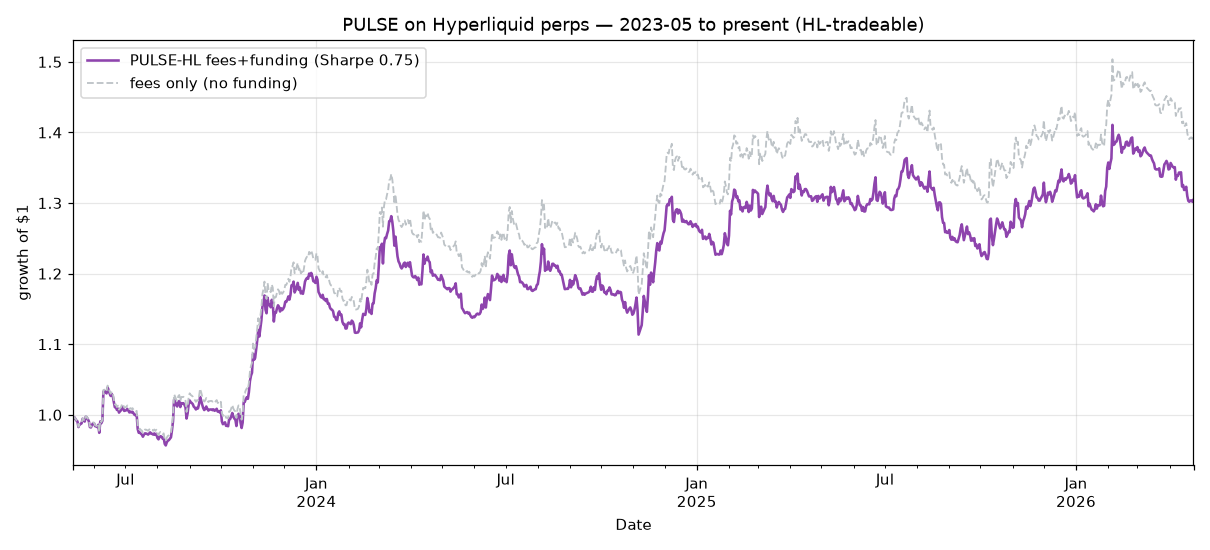
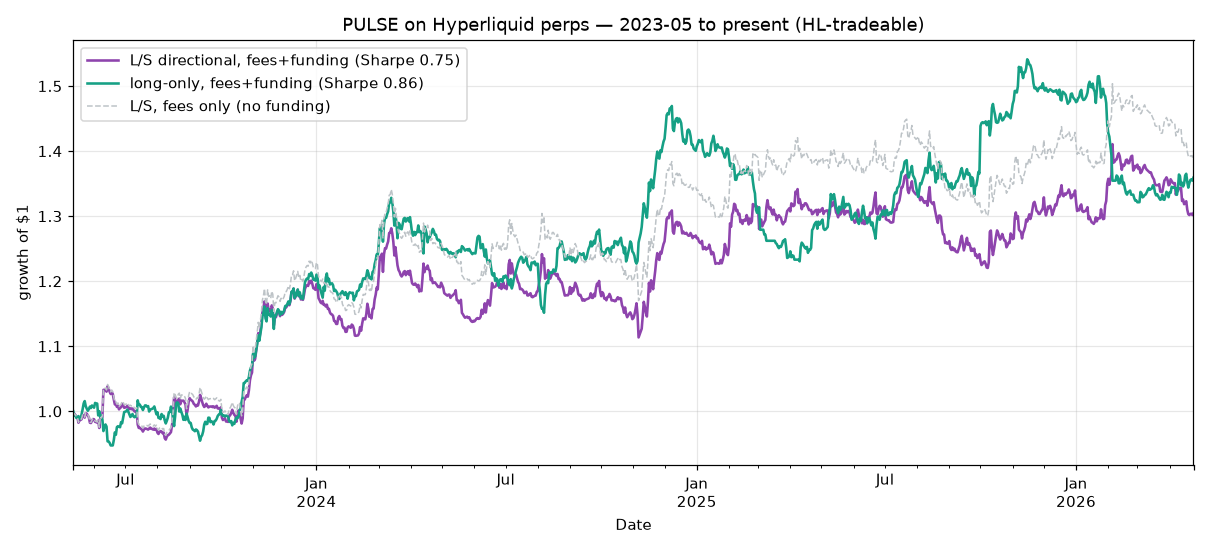
PULSE long-only variant: validate on HL + add to cross-asset
Long-only (long uptrends / flat) is the realistic spot-style version and is
actually competitive-to-better than the L/S book:

HL era 2023-05->now (fees+funding):
  long-only      Sharpe 0.86, +11.2%/yr, -16.3% maxDD, funding -1.1%
  L/S directional Sharpe 0.75, +9.9%/yr,  -13.1% maxDD, funding -2.3%

Long-only sits in cash when nothing trends -> pays LESS funding (no always-on
short leg) and needs no borrow, but carries crypto market beta: shallower in
calm years, worse 2026 (-2.20 vs -0.61) when held uptrends reversed.

- validate_hl.py: long_only mode + long-only-vs-L/S section + 3-line equity fig.
- live_signal.py: LONG_ONLY toggle.
- cross_asset.md already reports long-only Sharpe per universe (crypto +0.91,
  lev ETFs +0.58, ETFs +0.41, stocks +0.39 -- equity long-only is just market
  drift, not alpha).

https://claude.ai/code/session_017BV3qJcVT8Wp5LTdUv67gV

diff --git a/crypto_pulse/validate_hl.py b/crypto_pulse/validate_hl.py
@@ -78,7 +78,7 @@ def stats(p, ann=ANN):
                 n=len(p))
 
 
-def build_weights(C, V, H, L, vol_target=0.12):
+def build_weights(C, V, H, L, vol_target=0.12, long_only=False):
     R = C.pct_change()
     R[R.abs() > 2.0] = np.nan
     dv = (C * V).rolling(30).mean()
@@ -88,13 +88,16 @@ def build_weights(C, V, H, L, vol_target=0.12):
     don = ((C >= H.shift(1).rolling(20).max()).astype(float)
            - (C <= L.shift(1).rolling(20).min()).astype(float))
     sig = trend + don
+    if long_only:
+        sig = sig.clip(lower=0)                       # long uptrends / flat else
     w = (sig / sd).where(elig)
-    w = w.div(w.abs().sum(axis=1), axis=0)            # gross-1 dollar weights
+    w = w.div(w.abs().sum(axis=1), axis=0)            # gross-1 weights
     return w, R, elig
 
 
-def run(C, V, H, L, F, vol_target=0.12, taker_bps=TAKER_BPS, funding=True):
-    w, R, elig = build_weights(C, V, H, L, vol_target)
+def run(C, V, H, L, F, vol_target=0.12, taker_bps=TAKER_BPS, funding=True,
+        long_only=False):
+    w, R, elig = build_weights(C, V, H, L, vol_target, long_only=long_only)
     wl = w.shift(1)                                    # trade next day
     gross_ret = (wl * R).sum(axis=1)
     turn = (wl - wl.shift(1)).abs().sum(axis=1)
@@ -198,6 +201,32 @@ def main():
                  "negligible at this vol target.\n")
 
     # HL-era yearly sub-periods (honesty: recent regime)
+    # long-only variant (the realistic spot version; funding is a pure cost)
+    lo_net, lo_comp, _ = run(C, V, H, L, F, funding=True, long_only=True)
+    lo_nofund, _, _ = run(C, V, H, L, F, funding=False, long_only=True)
+    lines.append("## Long-only variant (long uptrends / flat — true-spot, also "
+                 "runnable as long-only perps)\n")
+    lines.append("| config | Sharpe | ann | vol | maxDD | days |")
+    lines.append("|---|---|---|---|---|---|")
+    lines.append(_row("long-only (fees+funding)", stats(lo_net[hl])))
+    lines.append(_row("long-only (fees only)", stats(lo_nofund[hl])))
+    lines.append(_row("L/S directional (reference)", stats(net[hl])))
+    lg = lo_comp["gross"][hl].mean() * ANN
+    lfe = lo_comp["fee"][hl].mean() * ANN
+    lfu = lo_comp["funding"][hl].mean() * ANN
+    lines.append("")
+    lines.append(f"Long-only attribution (HL era): gross **{lg:+.1%}**, fees "
+                 f"**{-lfe:+.1%}**, funding **{lfu:+.1%}** (a PURE cost here — no "
+                 f"short leg to offset it, vs {comp['funding'][hl].mean()*ANN:+.1%}"
+                 " for L/S), net "
+                 f"**{lg - lfe + lfu:+.1%}**. Long-only carries crypto market "
+                 "beta (deeper drawdowns, directional), but de-risks to cash when "
+                 "nothing trends.\n")
+    lines.append("Long-only by year (fees+funding): " + ", ".join(
+        f"{y} {stats(lo_net[(idx.year == y) & hl])['sharpe']:+.2f}"
+        for y in (2023, 2024, 2025, 2026)
+        if stats(lo_net[(idx.year == y) & hl])['n'] >= 60) + "\n")
+
     lines.append("## HL-era by year (fees+funding)\n")
     lines.append("| year | Sharpe | ann | maxDD | days |")
     lines.append("|---|---|---|---|---|")
@@ -240,10 +269,13 @@ def main():
 
     fig, ax = plt.subplots(figsize=(11, 5))
     (1 + net[hl]).cumprod().plot(ax=ax, color="#8e44ad", lw=1.7,
-                                 label=f"PULSE-HL fees+funding (Sharpe "
+                                 label=f"L/S directional, fees+funding (Sharpe "
                                  f"{stats(net[hl])['sharpe']:.2f})")
-    (1 + net_nofund[hl]).cumprod().plot(ax=ax, color="#bdc3c7", lw=1.2, ls="--",
-                                        label="fees only (no funding)")
+    (1 + lo_net[hl]).cumprod().plot(ax=ax, color="#16a085", lw=1.7,
+                                    label=f"long-only, fees+funding (Sharpe "
+                                    f"{stats(lo_net[hl])['sharpe']:.2f})")
+    (1 + net_nofund[hl]).cumprod().plot(ax=ax, color="#bdc3c7", lw=1.0, ls="--",
+                                        label="L/S, fees only (no funding)")
     ax.set_title("PULSE on Hyperliquid perps — 2023-05 to present (HL-tradeable)")
     ax.set_ylabel("growth of $1")
     ax.legend()

diff --git a/crypto_pulse/live_signal.py b/crypto_pulse/live_signal.py
@@ -27,6 +27,7 @@ import validate_hl as v
 # Account configuration (edit per deployment) -------------------------------
 ACCOUNT_EQUITY_USD = 10_000.0
 VOL_TARGET = 0.20            # annual; ~0.5x gross on HL, far from any liq.
+LONG_ONLY = False           # True = long uptrends / flat (spot-style, less funding)
 TAKER_BPS = v.TAKER_BPS
 MAX_GROSS_LEVERAGE = 3.0     # hard cap the bot will never exceed
 MIN_ORDER_USD = 12.0        # HL min notional is $10; pad it
@@ -37,7 +38,8 @@ def current_targets():
              if os.path.exists(os.path.join(v.CRYPTO, f"{c}_USD.csv"))]
     C, V, H, L = v.load_prices(coins)
     F = v.load_daily_funding(coins, C.index)
-    net, comp, w = v.run(C, V, H, L, F, vol_target=VOL_TARGET, funding=True)
+    net, comp, w = v.run(C, V, H, L, F, vol_target=VOL_TARGET, funding=True,
+                         long_only=LONG_ONLY)
     # the per-day scale is embedded in comp via gross_lev; recover today's scale
     last = C.index[-1]
     raw_w = w.loc[last]                                   # gross-1 weights

diff --git a/crypto_pulse/README.md b/crypto_pulse/README.md
@@ -36,7 +36,22 @@ on liquid crypto majors has weakened as the market matured. Treat PULSE as a
 **small, monitored sleeve**, not a confident standalone — and paper-trade first
 (see [`BOT_DEPLOYMENT.md`](BOT_DEPLOYMENT.md)).
 
-`live_signal.py` emits today's target signed notional per coin for the bot.
+`live_signal.py` emits today's target signed notional per coin for the bot
+(`LONG_ONLY=True` for the spot-style variant).
+
+### Long-only vs L/S on HL (2023-05→now, fees+funding)
+
+| variant | Sharpe | ann | maxDD | funding cost | by year |
+|---|---|---|---|---|---|
+| **long-only** (long uptrends / flat) | **0.86** | +11.2% | −16.3% | −1.1% | '23 +2.26 · '24 +1.19 · '25 +0.49 · '26 −2.20 |
+| L/S directional | 0.75 | +9.9% | −13.1% | −2.3% | '23 +2.00 · '24 +0.57 · '25 +0.49 · '26 −0.61 |
+
+Long-only is **simpler and slightly higher-Sharpe**: it sits in cash when nothing
+trends, so it pays **less funding** (−1.1% vs −2.3% — no always-on short leg) and
+needs no borrow/short. The trade-off is it carries **crypto market beta** —
+shallower in calm years but a worse 2026 (−2.20) when the held uptrends reversed,
+and a deeper max drawdown. Pick long-only for spot/simplicity, L/S for lower
+beta; neither escapes the 2026 decay.
 
 ## Does the edge travel to other assets? (spot crypto / ETFs / leveraged ETFs / PIT stocks)
 

diff --git a/crypto_pulse/research/hl_validation.md b/crypto_pulse/research/hl_validation.md
@@ -29,6 +29,18 @@ Universe: 57 coins listed on HL perps AND in our daily panel. Funding history pr
 - worst 1-day P&L: -3.0%; max drawdown -13.1%
 - account collateral vs HL maintenance margin: at mean gross leverage 0.26x and a blended ~5% maintenance margin, a same-day adverse move of ~379% across the whole book would be required to liquidate — vs the observed worst day of -3.0%. Liquidation risk is negligible at this vol target.
 
+## Long-only variant (long uptrends / flat — true-spot, also runnable as long-only perps)
+
+| config | Sharpe | ann | vol | maxDD | days |
+|---|---|---|---|---|---|
+| long-only (fees+funding) | +0.86 | +11.2% | 13.1% | -16.3% | 1079 |
+| long-only (fees only) | +0.93 | +12.2% | 13.1% | -16.0% | 1079 |
+| L/S directional (reference) | +0.75 | +9.9% | 13.2% | -13.1% | 1079 |
+
+Long-only attribution (HL era): gross **+14.2%**, fees **-1.9%**, funding **-1.1%** (a PURE cost here — no short leg to offset it, vs -2.3% for L/S), net **+11.2%**. Long-only carries crypto market beta (deeper drawdowns, directional), but de-risks to cash when nothing trends.
+
+Long-only by year (fees+funding): 2023 +2.26, 2024 +1.19, 2025 +0.49, 2026 -2.20
+
 ## HL-era by year (fees+funding)
 
 | year | Sharpe | ann | maxDD | days |